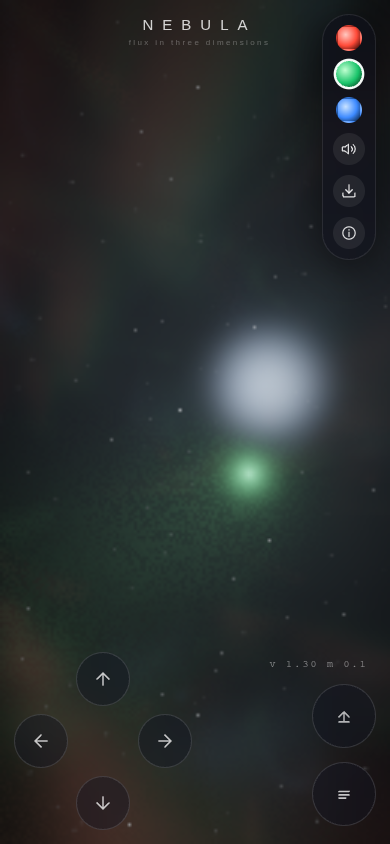
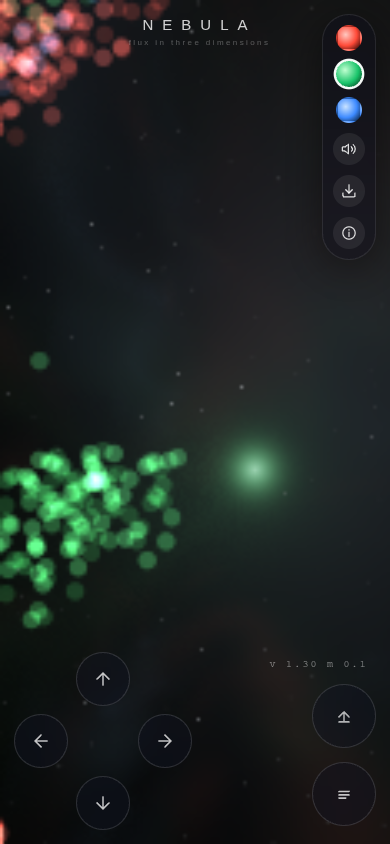
NEBULA: sharp particle layer — individual particles, dynamic color
User feedback: too fuzzy vs FLUX, colors static, wants visible
individual particles. Root cause: a 64^3 volume raymarch is fog by
construction. Fix is architectural:

- 65k GPGPU point sprites advected by the SAME velocity field, so they
  inherit binding, planet gravity and stirring for free — crisp comet
  tails, clouds of countable particles around every heart.
- Particle color = dominant species of the dye at its position, so
  absorption visibly flips particles to the predator's color; plus
  per-particle twinkle and speed/density brightness.
- Starving particles re-seed near a random heart, keeping the budget
  where the clouds are. Planet occlusion tested per particle in the
  vertex shader. Toroidal rendering via nearest-repeat relative to the
  camera. RGBA32F state with RGBA16F fallback; layer skipped cleanly
  on WebGL1.
- Volume demoted to dim breathing atmosphere (emission halved,
  species tints oscillate so the clouds never sit still); base render
  scale 0.55 -> 0.68, adaptive cap 0.8 -> 0.92.

diff --git a/nebula.html b/nebula.html
@@ -342,6 +342,125 @@ const reactFS = `
     gl_FragColor = vec4(r, g, b, r + g + b);
   }`;
 
+/* sharp particle layer: 65k sprites advected by the SAME velocity field —
+   they inherit binding, gravity and stirring for free, and take their color
+   from the dominant species of the dye where they float */
+const partSimFS = `
+  precision highp float;
+  varying vec2 vUv;
+  uniform sampler2D uState, uVel, uDyeT;
+  uniform vec4 uHearts[4];   // domain coords
+  uniform float uDt, uTime;
+  ${ATLAS}
+  vec2 hash22 (vec2 p) {
+    vec3 p3 = fract(vec3(p.xyx) * vec3(0.1031, 0.1030, 0.0973));
+    p3 += dot(p3, p3.yzx + 33.33);
+    return fract((p3.xx + p3.yz) * p3.zy);
+  }
+  void main () {
+    vec4 st = texture2D(uState, vUv);
+    vec3 pos = st.xyz;
+    vec3 v = sampleTri(uVel, pos).xyz;
+    pos = fract(pos + v * uDt + 1.0);
+    /* starving particles re-seed near a random heart, so the budget stays
+       where the clouds are */
+    float dens = dot(sampleTri(uDyeT, pos).rgb, vec3(1.0));
+    vec2 h2 = hash22(vUv * 913.7 + fract(uTime) * 31.7);
+    if (dens < 0.02 && h2.x < 0.08) {
+      float pick = floor(h2.y * 4.0);
+      vec3 hp = vec3(0.5);
+      for (int i = 0; i < 4; i++) if (float(i) == pick) hp = uHearts[i].xyz;
+      vec2 h3 = hash22(vUv * 477.1 + h2);
+      vec3 off = vec3(h2.y, h3.x, h3.y) - 0.5;
+      pos = fract(hp + off * 0.16 + 1.0);
+    }
+    gl_FragColor = vec4(pos, st.w);
+  }`;
+const partSeedFS = `
+  precision highp float;
+  varying vec2 vUv;
+  vec2 hash22 (vec2 p) {
+    vec3 p3 = fract(vec3(p.xyx) * vec3(0.1031, 0.1030, 0.0973));
+    p3 += dot(p3, p3.yzx + 33.33);
+    return fract((p3.xx + p3.yz) * p3.zy);
+  }
+  void main () {
+    vec2 a = hash22(vUv * 311.7);
+    vec2 b = hash22(vUv * 197.3 + 7.7);
+    gl_FragColor = vec4(a.x, a.y, b.x, b.y);
+  }`;
+const partDrawVS = `#version 300 es
+  precision highp float;
+  uniform sampler2D uState, uDyeT;
+  uniform vec3 uCamD;        // camera position, fract per component (domain)
+  uniform vec3 uCamW;        // camera true world position
+  uniform mat3 uCamB;        // columns: right, up, forward
+  uniform vec2 uRes;
+  uniform vec3 uSpecCol[3];
+  uniform vec4 uSph[12];
+  uniform float uTime, uPix;
+  out vec3 vCol;
+  const float N = 64.0;
+  const float TILES = 8.0;
+  vec4 sampleTri (sampler2D tex, vec3 p) {
+    vec3 v = fract(p) * N;
+    vec2 xy = clamp(v.xy - 0.5, vec2(0.001), vec2(N - 1.001));
+    float zf = v.z - 0.5;
+    float z0 = floor(zf);
+    float fz = zf - z0;
+    float za = mod(z0 + N, N);
+    float zb = mod(za + 1.0, N);
+    vec2 ta = vec2(mod(za, TILES), floor(za / TILES));
+    vec2 tb = vec2(mod(zb, TILES), floor(zb / TILES));
+    return mix(texture(tex, (ta * N + xy + 0.5) / (N * TILES)),
+               texture(tex, (tb * N + xy + 0.5) / (N * TILES)), fz);
+  }
+  void main () {
+    ivec2 ij = ivec2(gl_VertexID % 256, gl_VertexID / 256);
+    vec4 st = texelFetch(uState, ij, 0);
+    vec3 dp = fract(st.xyz - uCamD + 0.5) - 0.5;   // nearest toroidal repeat
+    vec3 v = dp * uCamB;                            // view coords (r, u, f)
+    gl_Position = vec4(2.0, 2.0, 2.0, 1.0);
+    gl_PointSize = 0.0;
+    vCol = vec3(0.0);
+    float depth = v.z;
+    if (depth < 0.025 || depth > 1.7) return;
+    vec2 uv = v.xy * (1.5 / depth);
+    vec2 ndc = vec2(uv.x / (uRes.x / uRes.y), uv.y);
+    if (abs(ndc.x) > 1.05 || abs(ndc.y) > 1.05) return;
+    /* occlusion by planets */
+    vec3 rdv = dp / max(length(dp), 1e-5);
+    float tmax = length(dp);
+    for (int i = 0; i < 12; i++) {
+      vec3 oc = uCamW - uSph[i].xyz;
+      float b = dot(oc, rdv);
+      float cc = dot(oc, oc) - uSph[i].w * uSph[i].w;
+      float h = b * b - cc;
+      if (h > 0.0) {
+        float t = -b - sqrt(h);
+        if (t > 0.0 && t < tmax) return;
+      }
+    }
+    vec4 s = sampleTri(uDyeT, st.xyz);
+    float m = max(s.r, max(s.g, s.b));
+    if (m < 0.012) return;
+    vec3 base = (s.r >= s.g && s.r >= s.b) ? uSpecCol[0] : ((s.g >= s.b) ? uSpecCol[1] : uSpecCol[2]);
+    float tw = 0.55 + 0.45 * sin(uTime * (2.0 + st.w * 7.0) + st.w * 43.0);
+    float fog = exp(-depth * 1.15);
+    vCol = (base * (0.5 + 0.6 * tw) + vec3(0.3, 0.32, 0.36) * tw * tw * 0.45) * fog * (0.35 + min(m, 1.2));
+    gl_Position = vec4(ndc, 0.0, 1.0);
+    gl_PointSize = clamp(uPix * 0.016 / depth, 1.0, 6.5);
+  }`;
+const partDrawFS = `#version 300 es
+  precision highp float;
+  in vec3 vCol;
+  out vec4 frag;
+  void main () {
+    vec2 d = gl_PointCoord - 0.5;
+    float a = smoothstep(0.25, 0.10, dot(d, d));
+    frag = vec4(vCol, 1.0) * a;
+  }`;
+
 const clearFS = `
   precision mediump float;
   varying vec2 vUv;
@@ -415,16 +534,20 @@ const renderFS = `
     float t = ds * (0.3 + 0.7 * jitter);
     vec3 col = vec3(0.0);
     float trans = 1.0;
+    /* species tints breathe so the clouds never sit still */
+    vec3 cs0 = uSpecCol[0] * (0.82 + 0.30 * sin(uTime * 0.43));
+    vec3 cs1 = uSpecCol[1] * (0.82 + 0.30 * sin(uTime * 0.51 + 2.1));
+    vec3 cs2 = uSpecCol[2] * (0.82 + 0.30 * sin(uTime * 0.37 + 4.2));
     for (int i = 0; i < STEPS; i++) {
       if (t > tEnd || trans < 0.02) break;
       vec3 wp = ro + rd * t;
       vec4 s = sampleTri(uDye, wp);
       float dens = s.r + s.g + s.b;
       if (dens > 0.003) {
-        vec3 ec = s.r * uSpecCol[0] + s.g * uSpecCol[1] + s.b * uSpecCol[2];
+        vec3 ec = s.r * cs0 + s.g * cs1 + s.b * cs2;
         float fade = exp(-t * 0.9);
-        col += ec * (5.5 * ds) * trans * fade;
-        trans *= exp(-dens * 5.0 * ds * fade);
+        col += ec * (2.6 * ds) * trans * fade;
+        trans *= exp(-dens * 6.0 * ds * fade);
       }
       t += ds;
     }
@@ -527,6 +650,37 @@ function createDouble (filter) {
   return { get read () { return a; }, get write () { return b; },
            swap () { const t = a; a = b; b = t; } };
 }
+/* particle state: 256^2 sprites, positions in wrapping domain coords */
+const PART_N = 256;
+function createPartTex () {
+  const tex = gl.createTexture();
+  gl.bindTexture(gl.TEXTURE_2D, tex);
+  gl.texParameteri(gl.TEXTURE_2D, gl.TEXTURE_MIN_FILTER, gl.NEAREST);
+  gl.texParameteri(gl.TEXTURE_2D, gl.TEXTURE_MAG_FILTER, gl.NEAREST);
+  gl.texParameteri(gl.TEXTURE_2D, gl.TEXTURE_WRAP_S, gl.CLAMP_TO_EDGE);
+  gl.texParameteri(gl.TEXTURE_2D, gl.TEXTURE_WRAP_T, gl.CLAMP_TO_EDGE);
+  let internal = isWebGL2 ? gl.RGBA32F : formatRGBA.internalFormat;
+  let type = isWebGL2 ? gl.FLOAT : halfType;
+  gl.texImage2D(gl.TEXTURE_2D, 0, internal, PART_N, PART_N, 0, gl.RGBA, type, null);
+  const fbo = gl.createFramebuffer();
+  gl.bindFramebuffer(gl.FRAMEBUFFER, fbo);
+  gl.framebufferTexture2D(gl.FRAMEBUFFER, gl.COLOR_ATTACHMENT0, gl.TEXTURE_2D, tex, 0);
+  if (gl.checkFramebufferStatus(gl.FRAMEBUFFER) !== gl.FRAMEBUFFER_COMPLETE) {
+    /* 32F not renderable: fall back to half float */
+    gl.bindTexture(gl.TEXTURE_2D, tex);
+    gl.texImage2D(gl.TEXTURE_2D, 0, formatRGBA.internalFormat, PART_N, PART_N, 0, gl.RGBA, halfType, null);
+  }
+  gl.clear(gl.COLOR_BUFFER_BIT);
+  return { tex, fbo, width: PART_N, height: PART_N,
+           attach (id) { gl.activeTexture(gl.TEXTURE0 + id); gl.bindTexture(gl.TEXTURE_2D, tex); return id; } };
+}
+const pState = isWebGL2 ? (() => {
+  let pa = createPartTex(), pb = createPartTex();
+  return { get read () { return pa; }, get write () { return pb; },
+           swap () { const t = pa; pa = pb; pb = t; } };
+})() : null;
+const emptyVAO = isWebGL2 ? gl.createVertexArray() : null;
+
 const vel = createDouble(gl.LINEAR);
 const dye = createDouble(gl.LINEAR);
 const pressure = createDouble(gl.NEAREST);
@@ -539,6 +693,22 @@ const gradProg   = new Program(gradientFS);
 const splatProg  = new Program(splatFS);
 const clearProg  = new Program(clearFS);
 const forceProg  = new Program(forceFS);
+const partSimProg  = isWebGL2 ? new Program(partSimFS) : null;
+const partSeedProg = isWebGL2 ? new Program(partSeedFS) : null;
+const partDrawProg = isWebGL2 ? (() => {
+  const p = gl.createProgram();
+  gl.attachShader(p, compile(gl.VERTEX_SHADER, partDrawVS));
+  gl.attachShader(p, compile(gl.FRAGMENT_SHADER, partDrawFS));
+  gl.linkProgram(p);
+  if (!gl.getProgramParameter(p, gl.LINK_STATUS)) console.error(gl.getProgramInfoLog(p));
+  const u = {};
+  const n = gl.getProgramParameter(p, gl.ACTIVE_UNIFORMS);
+  for (let i = 0; i < n; i++) {
+    const name = gl.getActiveUniform(p, i).name;
+    u[name] = gl.getUniformLocation(p, name);
+  }
+  return { program: p, u, bind () { gl.useProgram(p); } };
+})() : null;
 const reactProg  = new Program(reactFS);
 const renderProg = new Program(renderFS);
 
@@ -660,6 +830,7 @@ function seed () {
   }
 }
 seed();
+if (pState) { partSeedProg.bind(); blit(pState.write); pState.swap(); }
 
 /* ---------------- the player: an invisible center the cloud clings to ---------------- */
 const SPAWN = [0.18, 0.05, 0.9];
@@ -833,11 +1004,13 @@ function camMatrix (dt, b) {
     r[1] * fv[2] - r[2] * fv[1],
     r[2] * fv[0] - r[0] * fv[2],
     r[0] * fv[1] - r[1] * fv[0]];
+  viewBasis.set([r[0], r[1], r[2], u[0], u[1], u[2], fv[0], fv[1], fv[2]]);
   return new Float32Array([r[0], r[1], r[2], u[0], u[1], u[2], -fv[0], -fv[1], -fv[2]]);
 }
+const viewBasis = new Float32Array(9);
 
 /* ---------------- render ---------------- */
-let resScale = 0.55;
+let resScale = 0.68;
 function resizeCanvas () {
   const dpr = Math.min(window.devicePixelRatio || 1, 2);
   const w = Math.max(2, Math.floor(canvas.clientWidth * dpr * resScale));
@@ -865,6 +1038,53 @@ function render (now, b, mat) {
   gl.uniform3fv(renderProg.u['uSpecCol[0]'], new Float32Array(SPEC_COL.flat()));
   blit(null);
 }
+function particleSim (dt, now) {
+  if (!pState) return;
+  partSimProg.bind();
+  gl.uniform1i(partSimProg.u.uState, pState.read.attach(0));
+  gl.uniform1i(partSimProg.u.uVel, vel.read.attach(1));
+  gl.uniform1i(partSimProg.u.uDyeT, dye.read.attach(2));
+  const hb = new Float32Array(16);
+  const hearts = [ship, NPCS[0], NPCS[1], NPCS[2]];
+  for (let i = 0; i < 4; i++) {
+    hb[i * 4]     = hearts[i].pos[0] - Math.floor(hearts[i].pos[0]);
+    hb[i * 4 + 1] = hearts[i].pos[1] - Math.floor(hearts[i].pos[1]);
+    hb[i * 4 + 2] = hearts[i].pos[2] - Math.floor(hearts[i].pos[2]);
+    hb[i * 4 + 3] = 1.0;
+  }
+  gl.uniform4fv(partSimProg.u['uHearts[0]'], hb);
+  gl.uniform1f(partSimProg.u.uDt, dt);
+  gl.uniform1f(partSimProg.u.uTime, now / 1000);
+  blit(pState.write);
+  pState.swap();
+}
+function particleDraw (now, b) {
+  if (!pState) return;
+  gl.bindFramebuffer(gl.FRAMEBUFFER, null);
+  gl.viewport(0, 0, gl.drawingBufferWidth, gl.drawingBufferHeight);
+  gl.enable(gl.BLEND);
+  gl.blendFunc(gl.ONE, gl.ONE);
+  partDrawProg.bind();
+  gl.bindVertexArray(emptyVAO);
+  gl.uniform1i(partDrawProg.u.uState, pState.read.attach(0));
+  gl.uniform1i(partDrawProg.u.uDyeT, dye.read.attach(1));
+  gl.uniform3f(partDrawProg.u.uCamD,
+    camPos[0] - Math.floor(camPos[0]),
+    camPos[1] - Math.floor(camPos[1]),
+    camPos[2] - Math.floor(camPos[2]));
+  gl.uniform3f(partDrawProg.u.uCamW, camPos[0], camPos[1], camPos[2]);
+  /* columns: right, up, forward of the view */
+  gl.uniformMatrix3fv(partDrawProg.u.uCamB, false, viewBasis);
+  gl.uniform2f(partDrawProg.u.uRes, canvas.width, canvas.height);
+  gl.uniform3fv(partDrawProg.u['uSpecCol[0]'], new Float32Array(SPEC_COL.flat()));
+  gl.uniform4fv(partDrawProg.u['uSph[0]'], sphFlat);
+  gl.uniform1f(partDrawProg.u.uTime, now / 1000);
+  gl.uniform1f(partDrawProg.u.uPix, gl.drawingBufferHeight);
+  gl.drawArrays(gl.POINTS, 0, PART_N * PART_N);
+  gl.bindVertexArray(null);
+  gl.disable(gl.BLEND);
+}
+
 /* eaten check: read the dye at the player's heart voxel */
 let lastEatCheck = 0, lastMass = 0, readbackOK = true;
 function eatCheck () {
@@ -1216,7 +1436,7 @@ function tick (now) {
   frameEMA += (dt * 1000 - frameEMA) * 0.05;
   if (now - lastResAdjust > 1500) {
     if (frameEMA > 30 && resScale > 0.34) { resScale *= 0.85; lastResAdjust = now; }
-    else if (frameEMA < 14 && resScale < 0.8) { resScale *= 1.07; lastResAdjust = now; }
+    else if (frameEMA < 14 && resScale < 0.92) { resScale *= 1.07; lastResAdjust = now; }
   }
   resizeCanvas();
   const { b, near } = updateShip(dt, now);
@@ -1227,6 +1447,8 @@ function tick (now) {
   Audio.drone(launched && now - lastInteraction < 10000);
   const mat = camMatrix(dt, b);
   render(now, b, mat);
+  particleSim(dt, now);
+  particleDraw(now, b);
   if (now - speedTimer > 120) {
     speedTimer = now;
     const cd = Math.max(0, SWITCH_CD - (now - lastSwitch));